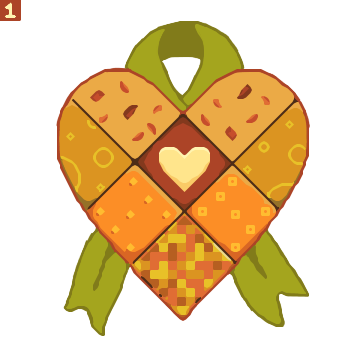
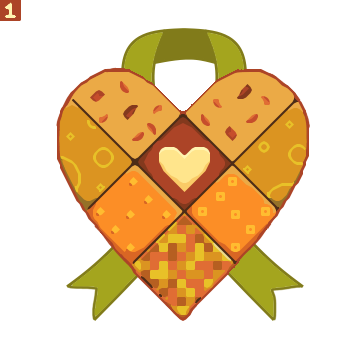
outro scene, fix html build

diff --git a/core/src/main/java/com/distraction/comfyjam1025/screens/OutroScreen.java b/core/src/main/java/com/distraction/comfyjam1025/screens/OutroScreen.java
@@ -1,0 +1,149 @@
+package com.distraction.comfyjam1025.screens;
+
+import com.badlogic.gdx.Gdx;
+import com.badlogic.gdx.Input;
+import com.badlogic.gdx.graphics.Color;
+import com.badlogic.gdx.graphics.g2d.TextureRegion;
+import com.badlogic.gdx.math.MathUtils;
+import com.distraction.comfyjam1025.Constants;
+import com.distraction.comfyjam1025.Context;
+import com.distraction.comfyjam1025.Utils;
+import com.distraction.comfyjam1025.entity.ImageEntity;
+import com.distraction.comfyjam1025.entity.Leaf;
+import com.distraction.comfyjam1025.entity.TextEntity;
+
+import java.util.List;
+
+public class OutroScreen extends Screen {
+
+    private static final float PAN_SPEED = 10;
+
+    private static final String SCRIPT =
+        "I see it now.\n" +
+            "All this time, I thought I had faded.\n" +
+            "But she remembers year after year,\n" +
+            "quietly carrying my heart with her.\n" +
+            "And that’s enough.";
+
+    private final List<ImageEntity> particles;
+    private float leafTime;
+
+    private final TextureRegion puzzleBg;
+    private final TextureRegion[] images;
+    private final float[] alphas;
+    private float time;
+
+    private final TextEntity text;
+    private final TextureRegion next;
+
+    public OutroScreen(Context context, List<ImageEntity> particles) {
+        super(context);
+        this.particles = particles;
+
+        in = new Transition(context, Transition.Type.FLASH_IN, 1f);
+        in.setFlashColor(Color.WHITE);
+        in.start();
+
+        out = new Transition(context, Transition.Type.FLASH_OUT, 4f, () -> context.sm.replace(new IntroScene(context)));
+        out.setFlashColor(Color.WHITE);
+
+        images = new TextureRegion[]{
+            context.getImage("ts0"),
+            context.getImage("ts1"),
+            context.getImage("ts2")
+        };
+        alphas = new float[3];
+        alphas[0] = 1;
+
+        puzzleBg = context.getImage("puzzlebg");
+
+        text = new TextEntity(context, context.getFont(Context.CON26), SCRIPT, Constants.WIDTH / 2f + 80, Constants.HEIGHT / 2f + 120 / 2f - 10);
+        text.setColor(1, 1, 1, 0);
+        text.a = 0;
+        text.ta = 0;
+        text.globalScale = textCam.viewportWidth / cam.viewportWidth;
+
+        next = context.getImage("next");
+
+        context.audio.playMusic("remembered", 0.7f, false);
+    }
+
+    @Override
+    public void input() {
+        if (ignoreInput) return;
+
+        if (Gdx.input.isButtonJustPressed(Input.Buttons.LEFT)) {
+            if (time > 14) {
+                ignoreInput = true;
+                out.start();
+            }
+        }
+    }
+
+    @Override
+    public void update(float dt) {
+        in.update(dt);
+        out.update(dt);
+
+        time += dt;
+        alphas[0] = MathUtils.clamp(6 - time, 0f, 1f);
+        alphas[1] = MathUtils.clamp(time < 5 ? time - 4 : time > 8 ? 1 - (time - 8) : 1, 0f, 1f);
+        alphas[2] = MathUtils.clamp(time - 8, 0f, 1f);
+
+        leafTime -= dt;
+        if (leafTime <= 0) {
+            leafTime = MathUtils.random(0.3f, 1.4f);
+            float x = MathUtils.random(20, Constants.WIDTH + 80);
+            float y = Constants.HEIGHT + 10;
+            particles.add(new Leaf(context, context.getImage("leaves"), x, y, -1f * MathUtils.random(1, 3), -1f * MathUtils.random(3, 6)));
+        }
+
+        for (int i = particles.size() - 1; i >= 0; i--) {
+            ImageEntity p = particles.get(i);
+            p.update(dt);
+            if (p.remove) particles.remove(p);
+        }
+
+        cam.position.x = MathUtils.clamp(cam.position.x + PAN_SPEED * dt, Constants.WIDTH / 2f, Constants.WIDTH / 2f + 80);
+        cam.update();
+        if (time > 12) text.ta = 1;
+        text.update(dt);
+        textCam.position.x = cam.position.x * text.globalScale;
+        textCam.update();
+    }
+
+    @Override
+    public void render() {
+        sb.begin();
+
+        sb.setProjectionMatrix(uiCam.combined);
+        sb.setColor(Constants.PUZZLE_BG);
+        sb.draw(pixel, 0, 0, Constants.WIDTH, Constants.HEIGHT);
+
+        sb.setProjectionMatrix(cam.combined);
+        for (ImageEntity p : particles) p.render(sb);
+
+        sb.setColor(1, 1, 1, 1);
+        Utils.drawCentered(sb, puzzleBg, Constants.WIDTH / 2f, Constants.HEIGHT / 2f, 126, 126);
+        sb.setColor(Constants.PUZZLE_PIECE_BG);
+        Utils.drawCentered(sb, pixel, Constants.WIDTH / 2f, Constants.HEIGHT / 2f, 120, 120);
+        for (int i = 0; i < images.length; i++) {
+            sb.setColor(1, 1, 1, alphas[i]);
+            Utils.drawCentered(sb, images[i], Constants.WIDTH / 2f, Constants.HEIGHT / 2f, 120, 120);
+        }
+
+        sb.setColor(1, 1, 1, 1);
+        sb.setProjectionMatrix(textCam.combined);
+        text.render(sb);
+        if (time > 14 && (time % 0.9f) < 0.45f) {
+            sb.setProjectionMatrix(uiCam.combined);
+            sb.draw(next, 300, 10, 8, 8);
+        }
+
+        sb.setProjectionMatrix(uiCam.combined);
+        in.render(sb);
+        out.render(sb);
+
+        sb.end();
+    }
+}

diff --git a/core/src/main/java/com/distraction/comfyjam1025/screens/IntroScene.java b/core/src/main/java/com/distraction/comfyjam1025/screens/IntroScene.java
@@ -21,20 +21,25 @@ public class IntroScene extends Screen {
     private static final float PAN_SPEED = 4;
     private static final float GIRL_SPEED = 30;
     private static final float GIRL_START = 150;
+    private static final float STEP_VOL = 0.15f;
 
     private static final TextData[] TEXT_DATA_1 = new TextData[]{
         new TextData("Another year. Another autumn.", 4),
-        new TextData("I used to think someone might visit...", 4.5f),
-        new TextData("But family is gone now. No friends left.", 4.5f),
+        new TextData("I used to think someone might visit...", 4f),
+        new TextData("But family is gone now. No friends left.", 4f),
         new TextData("No one to remember me.", 4),
+
         new TextData("It's strange, being forgotten.", 4),
-        new TextData("You fade a little more each year,", 4.5f),
-        new TextData("like trees losing their leaves.", 4.5f),
+        new TextData("To be gone completely.", 4),
+        new TextData("You fade a little more each year,", 4f),
+        new TextData("like trees losing their leaves.", 4f),
+
         new TextData("I suppose that's alright.", 4),
-        new TextData("I've had a quiet life.", 4),
+        new TextData("I was always invisible,", 4),
+        new TextData("living a quiet life.", 4),
         new TextData("Maybe that's enough.", 4),
-        new TextData("", 4),
-        new TextData("Hmm? Someone's coming.", 4)
+        new TextData("", 3),
+        new TextData("Hmm? Someone's coming.", 3)
     };
 
     private static final TextData[] TEXT_DATA_2 = new TextData[]{
@@ -71,7 +76,7 @@ public class IntroScene extends Screen {
     private final float panx = gravex + 10;
 
     private float textTime;
-    private float nextTextTime = 4;
+    private float nextTextTime = 2;
     private final TextEntity text;
     private int textIndex = -1;
     private TextData[] texts = TEXT_DATA_1;
@@ -156,7 +161,7 @@ public class IntroScene extends Screen {
             }
         } else if (action == Action.INTRO_PAN) {
             textTime += dt;
-            if (textTime > 1f && !context.audio.isMusicPlaying()) {
+            if (textTime > 2f && !context.audio.isMusicPlaying()) {
                 context.audio.playMusic("forgotten", 0.7f, false);
             }
             if (textTime > nextTextTime) {
@@ -193,7 +198,7 @@ public class IntroScene extends Screen {
                 girl.animation.setAnimation(Arrays.copyOfRange(girlImages, 2, 4), 1.5f);
             }
             if (girlFrame == 0 && girl.animation.frame != girlFrame) {
-                float vol = MathUtils.clamp(0.2f - 0.2f * (panx - girl.x) / (Constants.WIDTH / 2f), 0, 0.2f);
+                float vol = MathUtils.clamp(STEP_VOL - STEP_VOL * (panx - girl.x) / (Constants.WIDTH / 2f), 0, STEP_VOL);
                 context.audio.playSound("step", vol);
             }
         } else if (action == Action.GIRL_GIFT) {
@@ -230,7 +235,7 @@ public class IntroScene extends Screen {
             }
             text.update(dt);
             if (girlFrame == 0 && girl.animation.frame != girlFrame && girl.x > panx - Constants.WIDTH / 2f) {
-                float vol = MathUtils.clamp(0.2f - 0.2f * (panx - girl.x) / (Constants.WIDTH / 2f), 0, 0.2f);
+                float vol = MathUtils.clamp(STEP_VOL - STEP_VOL * (panx - girl.x) / (Constants.WIDTH / 2f), 0, STEP_VOL);
                 context.audio.playSound("step", vol);
             }
         }

diff --git a/core/src/main/java/com/distraction/comfyjam1025/screens/PlayScreen.java b/core/src/main/java/com/distraction/comfyjam1025/screens/PlayScreen.java
@@ -24,8 +24,10 @@ public class PlayScreen extends Screen {
         "A flower?\n" +
             "People leave those for the\n" +
             "ones they care about.\n" +
+            "Must be a mistake.\n" +
             "Maybe she was just passing by...",
         "That photo...\n" +
+            "It's the last one taken of my parents.\n" +
             "I kept it close near the end.\n" +
             "It was my most cherished possession.\n" +
             "How did she find it?",
@@ -43,6 +45,7 @@ public class PlayScreen extends Screen {
     private static final int GRID_WIDTH = 120;
     private static final float PAN_SPEED = 30;
 
+    private final int year;
     private final int numRows;
 
     private final TextureRegion puzzleBg;
@@ -71,7 +74,8 @@ public class PlayScreen extends Screen {
     public PlayScreen(Context context, int year) {
         super(context);
 
-        numRows = 3;
+        this.year = year;
+        numRows = year == 1 ? 2 : 3;
 
         float uix = 50;
 
@@ -125,13 +129,8 @@ public class PlayScreen extends Screen {
         in.setFlashColor(Color.BLACK);
         in.start();
 
-        if (year == 4) {
-            out = new Transition(context, Transition.Type.FLASH_OUT, 1f, () -> context.sm.replace(new IntroScene(context)));
-            out.setFlashColor(Color.WHITE);
-        } else {
-            out = new Transition(context, Transition.Type.FLASH_OUT, 1f, () -> context.sm.replace(new YearScreen(context, year + 1)));
-            out.setFlashColor(Color.BLACK);
-        }
+        out = new Transition(context, Transition.Type.FLASH_OUT, 1f, () -> context.sm.replace(new YearScreen(context, year + 1)));
+        out.setFlashColor(Color.BLACK);
 
         text = new TextEntity(context, context.getFont(Context.CON26), SCRIPTS[year - 1], Constants.WIDTH / 2f + 80, Constants.HEIGHT / 2f + GRID_WIDTH / 2f - 10);
         text.setColor(1, 1, 1, 0);
@@ -250,10 +249,14 @@ public class PlayScreen extends Screen {
             for (PuzzlePiece cell : row) cell.update(dt);
         }
         if (!done && isDone()) {
-            done = true;
-            selected = null;
-            context.audio.playSound("puzzlefinish", 0.5f);
-            flash = 1f;
+            if (year == 4) {
+                context.sm.replace(new OutroScreen(context, particles));
+            } else {
+                done = true;
+                selected = null;
+                flash = 1f;
+                context.audio.playSound("puzzlefinish", 0.5f);
+            }
         }
         flash -= dt;
         if (done) {

diff --git a/core/src/main/java/com/distraction/comfyjam1025/screens/GraveScene.java b/core/src/main/java/com/distraction/comfyjam1025/screens/GraveScene.java
@@ -18,6 +18,7 @@ public class GraveScene extends Screen {
 
     private static final float GIRL_SPEED = 35;
     private static final float GIRL_START = -20;
+    private static final float STEP_VOL = 0.15f;
 
     private static final TextData[][] TEXT_DATA = new TextData[][]{
         {
@@ -155,7 +156,7 @@ public class GraveScene extends Screen {
                 girl.animation.setAnimation(Arrays.copyOfRange(girlImages, 2, 4), 1.5f);
             }
             if (girlFrame == 0 && girl.animation.frame != girlFrame) {
-                float vol = MathUtils.clamp(0.2f * girl.x / (Constants.WIDTH / 2f), 0, 0.2f);
+                float vol = MathUtils.clamp(STEP_VOL * girl.x / (Constants.WIDTH / 2f), 0, STEP_VOL);
                 context.audio.playSound("step", vol);
             }
         } else if (action == Action.GIRL_GIFT) {
@@ -169,7 +170,7 @@ public class GraveScene extends Screen {
             girl.update(dt);
             girl.x -= GIRL_SPEED * dt;
             if (girlFrame == 0 && girl.animation.frame != girlFrame && girl.x > 0) {
-                float vol = MathUtils.clamp(0.2f * girl.x / (Constants.WIDTH / 2f), 0, 0.2f);
+                float vol = MathUtils.clamp(STEP_VOL * girl.x / (Constants.WIDTH / 2f), 0, STEP_VOL);
                 context.audio.playSound("step", vol);
             }
         }

diff --git a/core/src/main/java/com/distraction/comfyjam1025/screens/YearScreen.java b/core/src/main/java/com/distraction/comfyjam1025/screens/YearScreen.java
@@ -17,10 +17,10 @@ public class YearScreen extends Screen {
         text.vAlignment = TextEntity.VAlignment.CENTER;
         text.globalScale = textCam.viewportWidth / cam.viewportWidth;
 
-        in = new Transition(context, Transition.Type.FLASH_IN, 1f);
+        in = new Transition(context, Transition.Type.FLASH_IN, 0.5f);
         in.setFlashColor(Color.BLACK);
         in.start();
-        out = new Transition(context, Transition.Type.FLASH_OUT, 1f);
+        out = new Transition(context, Transition.Type.FLASH_OUT, 0.5f);
         out.setCallback(() -> {
             if (year == 1) context.sm.replace(new PlayScreen(context, year));
             else context.sm.replace(new GraveScene(context, year));

diff --git a/core/src/main/java/com/distraction/comfyjam1025/Context.java b/core/src/main/java/com/distraction/comfyjam1025/Context.java
@@ -35,6 +35,7 @@ public class Context {
 //        sm = new ScreenManager(new com.distraction.comfyjam1025.screens.PlayScreen(this, 1));
 //        sm = new ScreenManager(new com.distraction.comfyjam1025.screens.YearScreen(this, 1));
 //        sm = new ScreenManager(new com.distraction.comfyjam1025.screens.GraveScene(this, 4));
+//        sm = new ScreenManager(new com.distraction.comfyjam1025.screens.OutroScreen(this, new java.util.ArrayList<>()));
     }
 
     public TextureRegion getImage(String key) {

diff --git a/core/src/main/java/com/distraction/comfyjam1025/Constants.java b/core/src/main/java/com/distraction/comfyjam1025/Constants.java
@@ -10,7 +10,7 @@ public class Constants {
     public static final int SCREE_SCALE = 3;
     public static final int SWIDTH = WIDTH * SCREE_SCALE;
     public static final int SHEIGHT = HEIGHT * SCREE_SCALE;
-    public static final boolean FULLSCREEN = false;
+    public static final boolean FULLSCREEN = true;
 
     public static final Color[] COLORS = {
         Color.valueOf("390c14"), // 0
